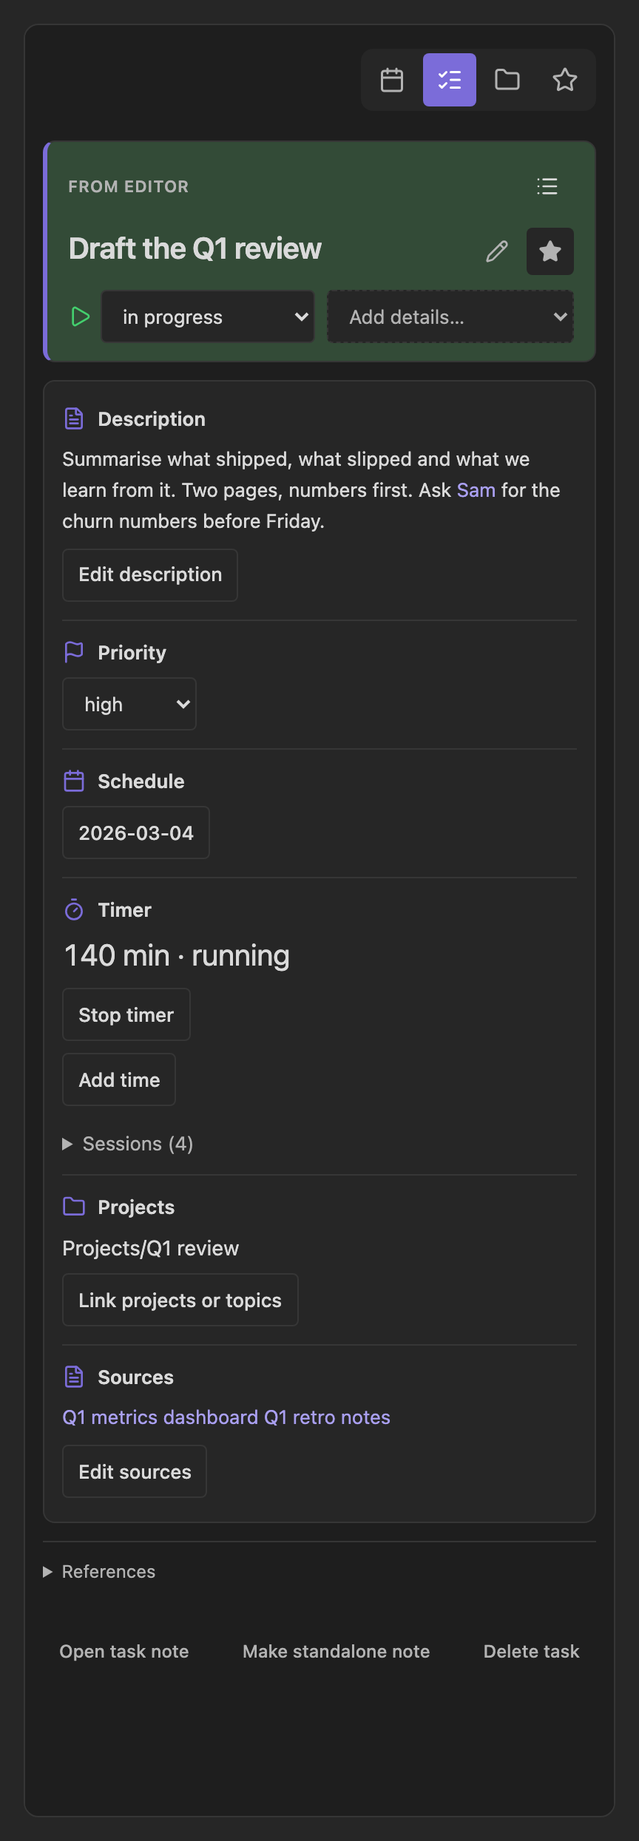
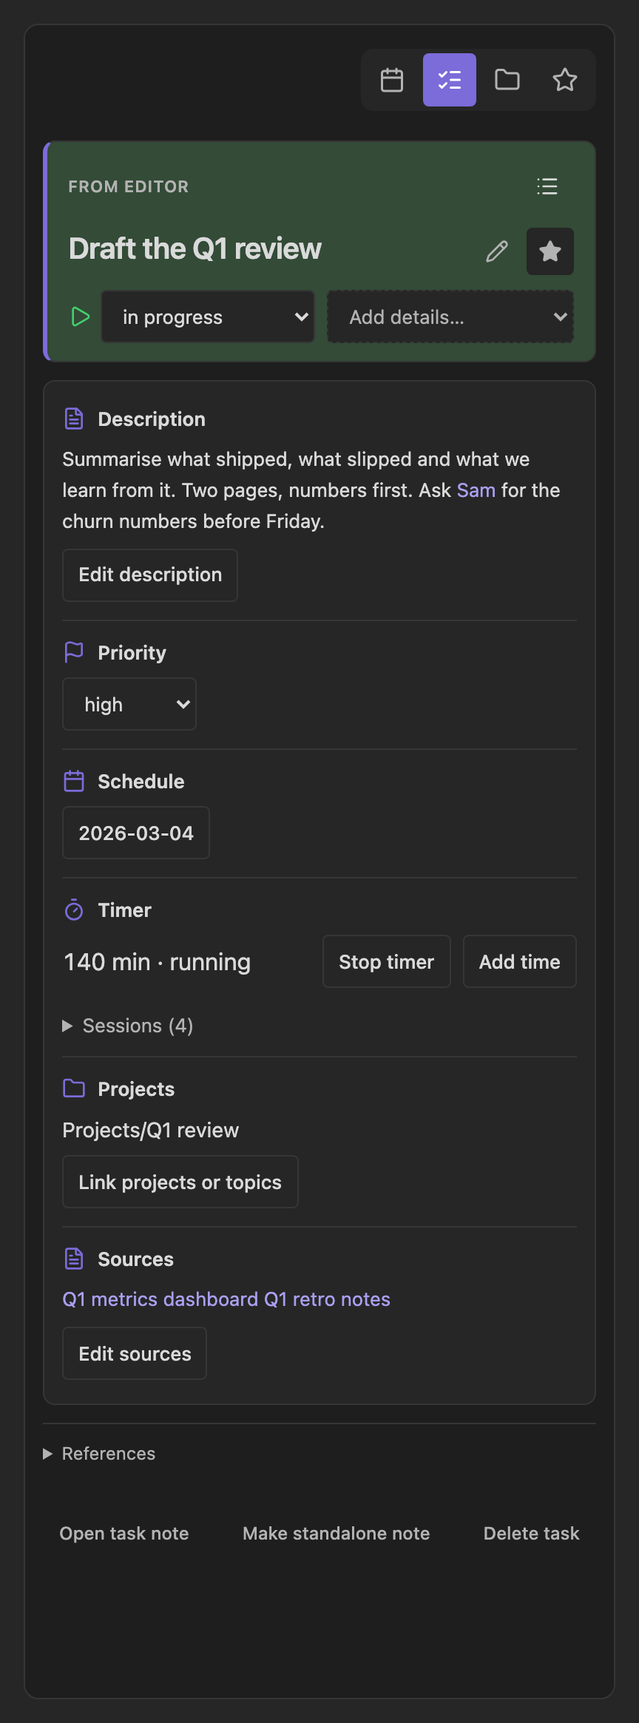
Polish the daily note: silent timer stop, project links and picker colours, sorting around bullets, cursor follows moved todo, compact timer; add whole-journey test (#80)

diff --git a/src/tests/journey.dom.test.ts b/src/tests/journey.dom.test.ts
@@ -1,0 +1,101 @@
+// @vitest-environment happy-dom
+// One user's whole life with the plugin in a throwaway in-memory vault: install, first run, every day-to-day feature, restart, upgrade of old notes, retire.
+// It drives the real plugin (commands, vault events, services, modals) so a regression between features shows up here, not only in the unit tests.
+import { afterEach, describe, expect, it, vi } from "vitest";
+import Organized from "../main";
+import { installObsidianDom } from "./__mocks__/obsidianDom";
+import { harness } from "./harness";
+import { Modal, Notice, TFile } from "./__mocks__/obsidian";
+import { ConfirmModal, OnboardingModal, RetireModal } from "../modals";
+import { parseTasks, readNote, writeNoteSection } from "../codec";
+import { splitNote } from "../repository";
+import { localDate } from "../model";
+
+installObsidianDom();
+const flush = async () => { for (let i = 0; i < 120; i++) await Promise.resolve(); };
+afterEach(() => { vi.useRealTimers(); });
+const manifest = { id: "organized", name: "Organized", author: "davadev", version: "0.0.0", minAppVersion: "1.7.2", description: "", isDesktopOnly: false };
+
+async function install(h: ReturnType<typeof harness>, data?: unknown) {
+  const plugin = new Organized(h.app, manifest) as any; plugin.data = data; await plugin.onload(); h.layout.forEach(fn => fn()); await flush();
+  return plugin;
+}
+const command = (plugin: any, id: string) => plugin.commands.find((c: any) => c.id === id);
+const ids = (text: string) => [...text.matchAll(/organized:([a-z0-9]+)/g)].map(m => m[1]);
+const approve = async () => { await flush(); (Modal.instances.at(-1) as ConfirmModal).done(true); await flush(); };
+const fire = (h: ReturnType<typeof harness>, name: string, ...args: unknown[]) => { for (const fn of h.events[name] ?? []) fn(...args); };
+
+describe("a user's whole journey, from install to retiring", () => {
+  it("installs, converts todos, works with tasks, restarts, upgrades old notes and retires without losing anything", async () => {
+    vi.useFakeTimers({ toFake: ["setTimeout", "setInterval", "Date"] }); vi.setSystemTime(new Date(2026, 2, 4, 9, 0));
+    const today = localDate();
+    const h = harness();
+    // The vault before the plugin: a daily note full of ordinary todos, a note to link to, and a task note an older Organized wrote.
+    const daily = await h.add(`Daily/${today}.md`, "# Plan\n- [ ] Write report\n- [ ] Call _ back\n- [ ] Review snake_case names\n\n# Later\n- [x] Already done\n") as TFile;
+    await h.add("Ideas.md", "Some idea\n");
+    const old = await h.repo.create("Legacy task");
+    const oldPath = h.repo.taskPath(old.id);
+    h.texts.set(oldPath, `${h.texts.get(oldPath)!.replace(/\s*$/, "\n")}\n## Description\nOld description\n\n## Notes\nSee [[Ideas]]\n`);
+    const before = new Map(h.texts);
+
+    // 1. First start: the onboarding card opens once, nothing in the user's notes is written, the old task note is migrated with a backup.
+    Modal.instances.length = 0; let plugin = await install(h);
+    const card = Modal.instances.filter(m => m instanceof OnboardingModal); expect(card).toHaveLength(1); expect(plugin.settings.onboardingSeen).toBe(false); card[0].close(); await flush(); expect(plugin.settings.onboardingSeen).toBe(true);
+    expect(h.texts.get(daily.path)).toBe(before.get(daily.path)); expect(h.texts.get("Ideas.md")).toBe(before.get("Ideas.md"));
+    expect(readNote(splitNote(h.texts.get(oldPath)!).body)).toMatchObject({ description: "Old description\n\nSee [[Ideas]]" }); expect(h.texts.get(oldPath)).not.toMatch(/^## (Description|Notes)/m);
+    expect([...h.texts.keys()].some(k => k.includes("note-backups/task-notes"))).toBe(true); expect(plugin.settings.taskNotesMigrated).toBe(true);
+
+    // 2. Convert the todos of the open daily note with the command; the checkbox text and state survive, each todo gets a task note.
+    const editor = {}; const view = { file: daily };
+    command(plugin, "convert-todos").editorCallback(editor, view); await approve();
+    const converted = h.texts.get(daily.path)!; expect(converted.replace(/ <!--organized:[a-z0-9]+-->/g, "")).toBe(before.get(daily.path));
+    expect(ids(converted)).toHaveLength(3); expect(converted).toContain("- [x] Already done\n");
+    const [report, underscore, snake] = parseTasks(converted).map(line => line.id!);
+    expect((await plugin.repo.read(underscore)).title).toBe("Call _ back"); expect((await plugin.repo.read(snake)).title).toBe("Review snake_case names");
+
+    // 3. Everyday use: description in the note body, priority, schedule, status, tracked time, projects.
+    await plugin.saveModule(report, "Description", "Cover Q1.\nLink: [[Ideas]]"); await plugin.saveModule(report, "Sources", "https://example.com");
+    expect(readNote(splitNote(h.texts.get(plugin.repo.taskPath(report))!).body)).toEqual({ description: "Cover Q1.\nLink: [[Ideas]]", sources: "https://example.com" });
+    await plugin.run(() => plugin.service.setPriority(report, "high")); await plugin.run(() => plugin.service.status(report, "in_progress")); await plugin.run(() => plugin.service.status(report, "open"));
+    await plugin.run(() => plugin.service.addSession(report, { start: new Date(2026, 2, 4, 9, 0).toISOString(), end: new Date(2026, 2, 4, 10, 30).toISOString() }));
+    await plugin.run(() => plugin.service.projects(report, ["Ideas.md"]));
+    const tomorrow = localDate(new Date(2026, 2, 5)); await plugin.run(() => plugin.service.scheduleTask(snake, tomorrow));
+    expect((await plugin.repo.read(snake)).scheduled).toBe(tomorrow);
+    expect((await plugin.repo.read(report)).time_tracked_seconds).toBe(5400);
+
+    // 4. Title edits keep the todo line in step, a completed task closes, and a restart changes nothing on disk.
+    await plugin.run(() => plugin.service.title(report, "Write the Q1 report")); expect(h.texts.get(daily.path)).toContain("Write the Q1 report");
+    await plugin.run(() => plugin.service.status(underscore, "completed")); expect((await plugin.repo.read(underscore)).closed_at).not.toBeNull();
+    plugin.onunload?.(); const snapshot = new Map(h.texts);
+    const events = h.events; for (const key of Object.keys(events)) delete events[key]; h.layout.length = 0;
+    plugin = await install(h, plugin.data); const changedByRestart = [...h.texts].filter(([p, t]) => p !== "Daily" && snapshot.get(p) !== t && !p.includes("crash") && !p.includes("backups") && !p.endsWith(".json"));
+    expect(changedByRestart).toEqual([]);
+
+    // 5. A todo becomes a standalone note; renaming that note keeps the tracked-time record attached.
+    await plugin.run(() => plugin.service.convertToNote(report, { folder: "Notes", tags: ["work"], template: null, clash: "new" }));
+    const note = h.app.vault.getMarkdownFiles().find(f => f.path.startsWith("Notes/"))!; expect(note.path).toBe("Notes/Write the Q1 report.md"); expect(h.texts.get(daily.path)).toContain("[[Notes/Write the Q1 report");
+    expect(h.texts.get(note.path)).toContain("Cover Q1."); expect(h.texts.get(note.path)).toContain("work");
+    await h.app.fileManager.renameFile(note, "Notes/Q1 report.md");
+    for (const [path, text] of h.texts) h.texts.set(path, text.split("[[Notes/Write the Q1 report").join("[[Notes/Q1 report")); // Obsidian rewrites links when a note is renamed
+    fire(h, "rename", note, "Notes/Write the Q1 report.md"); await flush();
+    expect((await plugin.repo.read(report)).converted_to).toBe("Notes/Q1 report.md");
+
+    // 6. Retire: scan, then run the window's choices (links, readable names, properties removed) and check the vault reads as plain Markdown.
+    command(plugin, "retire-tasks").callback(); await flush(); const modal = Modal.instances.at(-1);
+    expect(modal).toBeInstanceOf(RetireModal);
+    (modal as { close(): void }).close();
+    const scan = await plugin.service.scanRetire(); expect(scan.tasks.length).toBeGreaterThanOrEqual(3);
+    await plugin.run(() => plugin.service.retireTasks({ which: "all", olderThanDays: 7, lines: "link", keep: "all", notes: "rename", yaml: "strip" }, (files: any, extra: any) => plugin.safety.writeBackup("retire", files, extra)));
+    const after = h.texts.get(daily.path)!; expect(after).not.toMatch(/organized:/); expect(after).toMatch(/- \[x\] \[\[Tasks\/Call _ back\]\]/); expect(after).toMatch(/- \[ \] \[\[Tasks\/Review snake_case names\]\]/); expect(after).toContain("- [x] Already done\n");
+    // The record behind a standalone note keeps its tracked time and is not a task any more, so retiring leaves it alone.
+    for (const path of h.texts.keys()) if (path.startsWith("Tasks/") && path.endsWith(".md") && path !== plugin.repo.taskPath(report)) expect(h.texts.get(path)).not.toMatch(/organized:|schema_version|work_sessions/);
+    expect(h.texts.get(plugin.repo.taskPath(report))).toContain("converted_to: Notes/Q1 report.md");
+    expect(h.app.vault.getMarkdownFiles().some(f => f.path === "Tasks/Call _ back.md")).toBe(true);
+    // Every link left in the daily note resolves to a file that exists.
+    for (const target of [...after.matchAll(/\[\[([^\]|]+)/g)].map(m => m[1])) expect(h.app.vault.getAbstractFileByPath(`${target}.md`) ?? h.app.vault.getAbstractFileByPath(target), target).not.toBeNull();
+    // And Undo puts the vault back as it was before retiring.
+    const linked = h.texts.get(daily.path)!; await plugin.service.undo();
+    expect(ids(h.texts.get(daily.path)!)).toHaveLength(2); expect(h.texts.get(daily.path)).not.toBe(linked); expect(h.app.vault.getAbstractFileByPath("Tasks/Call _ back.md")).toBeNull(); expect(h.app.vault.getAbstractFileByPath(plugin.repo.taskPath(underscore))).not.toBeNull();
+    expect((await plugin.repo.read(underscore)).title).toBe("Call _ back");
+  });
+});

diff --git a/src/tests/main.dom.test.ts b/src/tests/main.dom.test.ts
@@ -48,7 +48,7 @@ describe('plugin lifecycle and user-only editor actions', () => {
     await stub.processors[0](createDiv(), { getSectionInfo: () => null }); expect(h.raw.vault.process).not.toHaveBeenCalled();
     const file: any = await h.add('Note.md', '- [ ] ordinary'); const editor: any = h.setActive(file); editor.cm = { dispatch: vi.fn() }; plugin.refresh(); expect(editor.cm.dispatch).toHaveBeenCalledWith(expect.objectContaining({ effects: expect.anything() }));
     h.raw.workspace.getActiveViewOfType.mockReturnValueOnce({ file, editor, getMode: () => 'preview' } as any); expect(plugin.activeEditor()).toBeNull();
-    const task = await plugin.repo.create('Project'); const projects = vi.spyOn(plugin.service, 'projects').mockResolvedValue(); const clean = vi.spyOn(plugin.service, 'clean').mockResolvedValue(); plugin.pickProjects(task); const modal = Modal.instances.at(-1) as ProjectPicker; await modal.save([]); expect(projects).toHaveBeenCalledWith(task.id, []); expect(clean).not.toHaveBeenCalled(); modal.close();
+    const task = await plugin.repo.create('Project'); const projects = vi.spyOn(plugin.service, 'projects').mockResolvedValue(); const clean = vi.spyOn(plugin.service, 'clean').mockResolvedValue(); plugin.pickProjects(task); const modal = Modal.instances.at(-1) as ProjectPicker; expect(modal.colorOf('Missing.md')).toBeNull(); await modal.save([]); expect(projects).toHaveBeenCalledWith(task.id, []); expect(clean).not.toHaveBeenCalled(); modal.close();
   });
   it('registers capabilities only, defers vault-create handling and cleans durable crash state', async () => {
     const { h, plugin, stub } = await loaded();
@@ -172,23 +172,23 @@ describe('plugin lifecycle and user-only editor actions', () => {
     (plugin as any).pickerOpen = false; pick.mockClear();
     plugin.onEditorUpdate(update('', '- [ ] ', 'input.paste')); await flush(); expect(pick).not.toHaveBeenCalled();
   });
-  it('triggers only changed linked markers, first manages deliberate syntax and prompts for removed active timers', async () => {
+  it('triggers only changed linked markers, first manages deliberate syntax and stops removed active timers with a notice', async () => {
     const { h, plugin } = await loaded(); const task = await plugin.repo.create('Managed'); const file: any = await h.add('Note.md'); const editor = h.setActive(file);
     const trigger = vi.spyOn(plugin, 'trigger').mockResolvedValue();
     const old = `- [ ] Managed <!--organized:${task.id}-->`; const next = old.replace('[ ]', '[/]'); editor.setValue(next); plugin.onEditorUpdate(update(old, next)); await flush(); expect(trigger).toHaveBeenCalledOnce();
     editor.setValue(old.replace('Managed', 'Edited title')); plugin.onEditorUpdate(update(old, editor.getValue())); await flush(); expect(trigger).toHaveBeenCalledOnce();
     editor.setValue('- [!] First'); plugin.onEditorUpdate(update('- [ ] First', editor.getValue())); await flush(); expect(await plugin.repo.list()).toHaveLength(2); expect(parseTasks(editor.getValue())[0].id).toBeTruthy(); expect(trigger).toHaveBeenCalledTimes(2);
     const confirm = vi.spyOn(plugin, 'confirm').mockResolvedValue(true); const status = vi.spyOn(plugin.service, 'status').mockResolvedValue();
-    editor.setValue('- [ ] remains'); plugin.onEditorUpdate(update(next, editor.getValue())); await flush(); expect(confirm).toHaveBeenCalled(); expect(status).toHaveBeenCalledWith(task.id, 'open');
+    editor.setValue('- [ ] remains'); plugin.onEditorUpdate(update(next, editor.getValue())); await flush(); expect(confirm).not.toHaveBeenCalled(); expect(status).toHaveBeenCalledWith(task.id, 'open'); expect(Notice.instances.at(-1)?.message).toContain('Timer stopped for');
     confirm.mockResolvedValue(false); plugin.onEditorUpdate(update(next, editor.getValue())); await flush(); expect(status).toHaveBeenCalledOnce();
   });
-  it('coalesces picker microtasks, handles new linked lines and keeps timer deletion prompts optional', async () => {
+  it('coalesces picker microtasks, handles new linked lines and never asks about a removed timer', async () => {
     const { h, plugin } = await loaded(); const file: any = await h.add('Note.md'); const editor = h.setActive(file, '- [ ] ');
     const picker = vi.spyOn(plugin, 'pickTask').mockImplementation(async () => { (plugin as any).pickerOpen = true; });
     plugin.onEditorUpdate(update('- [', '- [ ] ')); plugin.onEditorUpdate(update('- [', '- [ ] ')); await flush(); expect(picker).toHaveBeenCalledOnce();
     plugin.onEditorUpdate(update('- [', '- [ ] ')); await flush(); expect(picker).toHaveBeenCalledOnce(); (plugin as any).pickerOpen = false;
     const trigger = vi.spyOn(plugin, 'trigger').mockResolvedValue(); editor.setValue('- [/] Existing <!--organized:task1234-->'); plugin.onEditorUpdate(update('', editor.getValue())); await flush(); expect(trigger).toHaveBeenCalledOnce();
-    const confirm = vi.spyOn(plugin, 'confirm').mockResolvedValue(false); const status = vi.spyOn(plugin.service, 'status').mockResolvedValue(); const old = editor.getValue(); editor.setValue('ordinary prose'); plugin.onEditorUpdate(update(old, editor.getValue())); await flush(); expect(confirm).toHaveBeenCalledOnce(); expect(status).not.toHaveBeenCalled();
+    const confirm = vi.spyOn(plugin, 'confirm').mockResolvedValue(false); const status = vi.spyOn(plugin.service, 'status').mockResolvedValue(); const old = editor.getValue(); editor.setValue('ordinary prose'); plugin.onEditorUpdate(update(old, editor.getValue())); await flush(); expect(confirm).not.toHaveBeenCalled(); expect(status).toHaveBeenCalledWith('task1234', 'open');
   });
   it('migrates linked projects once after layout ready, announces it with an undo, and never moves anything when writes are paused', async () => {
     const { h, plugin } = await loaded(); const folder = plugin.repo.projectFolder();

diff --git a/src/tests/modals.dom.test.ts b/src/tests/modals.dom.test.ts
@@ -54,15 +54,22 @@ describe("native task, date, source and project modals", () => {
     done.mockClear(); const confirm = new ConfirmModal(h.app, 'Question?', done); confirm.open(); confirm.contentEl.querySelectorAll('button')[1].click(); expect(done).toHaveBeenCalledExactlyOnceWith(true);
     const deleting = new ConfirmModal(h.app, 'Remove it?', done, 'Delete task', 'Delete'); deleting.open(); expect(deleting.titleEl.textContent).toBe('Delete task'); expect(deleting.contentEl.querySelectorAll('button')[1].textContent).toBe('Delete'); expect((Setting.instances.at(-1)!.controls.at(-1) as any).buttonEl.classList.contains('mod-warning')).toBe(true); deleting.close(); expect(done).toHaveBeenCalledTimes(2);
   });
+  it("lists project names with their colour dot, and the path only when two projects share a name", () => {
+    const h = harness(); const colors: Record<string, string> = { 'Tasks/Projects/Alpha.md': '#3b82f6' };
+    const modal = new ProjectPicker(h.app, ['Tasks/Projects/Alpha.md', 'Tasks/Projects/Beta.md', 'Work/Gamma.md', 'Home/Gamma.md'], [], async () => undefined, 'Tasks/Projects', note => colors[note] ?? null); modal.open();
+    const rows = Array.from(modal.contentEl.querySelectorAll('.organized-project-choice')); expect(rows.map(r => r.textContent)).toEqual(['Alpha', 'Beta', 'Work/Gamma', 'Home/Gamma']);
+    expect(rows[0].querySelector('.organized-project-dot')!.hasAttribute('data-project')).toBe(true); expect(rows[0].querySelector<HTMLElement>('.organized-project-dot')!.style.getPropertyValue('--organized-chip-bg')).toBe('59 130 246');
+    expect(rows[1].querySelector('.organized-project-dot')!.hasAttribute('data-project')).toBe(false);
+  });
   it("multi-selects projects and creates only a chosen valid root note; search keeps input focus", async () => {
     const h = harness(); const save = vi.fn(async () => undefined); const modal = new ProjectPicker(h.app, ['Existing.md', 'Other.md'], ['Selected.md'], save); modal.open(); decorated(modal);
     const input = modal.contentEl.querySelector('input[type=search]') as HTMLInputElement; input.focus(); input.value = 'New'; input.dispatchEvent(new Event('input'));
-    expect(document.activeElement).toBe(input); expect(modal.contentEl.textContent).toContain('New.md (create)');
+    expect(document.activeElement).toBe(input); expect(modal.contentEl.textContent).toContain('New (create)');
     const choice = modal.contentEl.querySelector('input[type=checkbox]') as HTMLInputElement; choice.checked = true; choice.dispatchEvent(new Event('change')); choice.checked = false; choice.dispatchEvent(new Event('change')); choice.checked = true; choice.dispatchEvent(new Event('change'));
     input.value = '../bad'; input.dispatchEvent(new Event('input')); expect(modal.contentEl.querySelectorAll('input[type=checkbox]')).toHaveLength(0);
     input.value = 'bad?'; input.dispatchEvent(new Event('input')); expect(modal.contentEl.querySelectorAll('input[type=checkbox]')).toHaveLength(0);
     modal.contentEl.querySelector('button')!.click(); await flush(); expect(save).toHaveBeenCalledWith(['Selected.md', 'New.md']); expect(h.files.size).toBe(0);
-    const filed = new ProjectPicker(h.app, [], [], save, 'Tasks/Projects'); filed.open(); const filedInput = filed.contentEl.querySelector('input[type=search]') as HTMLInputElement; filedInput.value = 'Plan.md'; filedInput.dispatchEvent(new Event('input')); expect(filed.contentEl.textContent).toContain('Tasks/Projects/Plan.md (create)'); filed.close();
+    const filed = new ProjectPicker(h.app, [], [], save, 'Tasks/Projects'); filed.open(); const filedInput = filed.contentEl.querySelector('input[type=search]') as HTMLInputElement; filedInput.value = 'Plan.md'; filedInput.dispatchEvent(new Event('input')); expect(filed.contentEl.textContent).toContain('Plan (create)'); filed.close();
     const failed = new ProjectPicker(h.app, [], [], async () => { throw Error('project failure'); }); failed.open(); failed.contentEl.querySelector('button')!.click(); await flush(); expect(Notice.instances.at(-1)?.message).toContain('project failure');
   });
   it("adds or edits a session with a live length, refuses a bad range and offers Open task and Delete when editing", async () => {

diff --git a/src/render.ts b/src/render.ts
@@ -1,11 +1,12 @@
-import { Component, MarkdownPostProcessorContext, MarkdownRenderer, MarkdownRenderChild } from "obsidian";
+import { Component, MarkdownPostProcessorContext, MarkdownRenderer, MarkdownRenderChild, Notice } from "obsidian";
 import { Decoration, DecorationSet, EditorView, ViewPlugin, ViewUpdate, WidgetType, keymap } from "@codemirror/view";
 import { StateEffect, StateField, RangeSetBuilder, EditorState, Extension, Prec } from "@codemirror/state";
 import { editorLivePreviewField } from "obsidian";
 import type Organized from "./main";
 import { noteSection, parseTasks } from "./codec";
 import { elapsed, Task } from "./model";
-import { splitNote } from "./repository";
+import { projectName, splitNote } from "./repository";
+import { rgbOf } from "./colors";
 import { report } from "./service";
 
 export const GLYPHS: Record<string, string> = {
@@ -17,6 +18,14 @@ export function icon(host: HTMLElement, marker: string): void {
 }
 /** Notes and sources render as Markdown blocks and need their own row; every other property is a short label that sits beside the title. */
 export function hasRichProperties(owner: Organized): boolean { return owner.settings.displayProperties.some(p => p === "description" || p === "sources"); }
+/** The task's projects as links showing only the project name, in the project's colour (darker on a light theme, brighter on a dark one) when it has one. */
+function projectLinks(owner: Organized, host: HTMLElement, task: Task): void {
+  for (const project of task.projects) {
+    const link = host.createEl("a", { text: projectName(project), cls: "organized-property organized-project-link", href: "#", attr: { "aria-label": `Open project ${projectName(project)}` } });
+    const color = owner.repo.projectColor(project); if (color) { link.setAttribute("data-project", ""); link.setCssProps({ "--organized-chip-bg": rgbOf(color) }); }
+    link.addEventListener("click", event => { event.preventDefault(); const file = owner.repo.file(project); if (file) void owner.app.workspace.getLeaf(false).openFile(file); else new Notice(`The project note ${project} no longer exists.`); });
+  }
+}
 /** `live` turns false once a newer draw or a teardown owns `host`, so an older projection stops appending after its awaits. */
 export async function projection(owner: Organized, host: HTMLElement, task: Task, component: Component, live: () => boolean = () => true): Promise<void> {
   host.addClass("organized-projection"); const selected = owner.settings.displayProperties;
@@ -28,6 +37,7 @@ export async function projection(owner: Organized, host: HTMLElement, task: Task
   for (const property of selected) {
     if (!live()) return;
     if (property === "scheduled") continue;
+    if (property === "projects") { projectLinks(owner, host, task); continue; }
     if (property === "description" || property === "sources") {
       const file = owner.repo.file(owner.repo.taskPath(task.id)); if (!file) continue;
       const body = splitNote(await owner.repo.readText(file)).body; if (!live()) return;

diff --git a/src/repository.ts b/src/repository.ts
@@ -11,6 +11,11 @@ export function splitNote(text: string): { frontmatter: Record<string, unknown>;
 export const PROJECT_KEY = "organized_type";
 /** Optional `#rrggbb` colour of a project note, shown on its tasks in the side panel and the calendar. */
 export const COLOR_KEY = "organized_color";
+/** A project note's name for display: the file name without folders or `.md`; the path (without `.md`) only when another listed project shares that name. */
+export function projectName(notePath: string, among: readonly string[] = []): string {
+  const name = (value: string) => value.replace(/^.*\//, "").replace(/\.md$/i, "");
+  return among.filter(other => other !== notePath && name(other).toLowerCase() === name(notePath).toLowerCase()).length ? notePath.replace(/\.md$/i, "") : name(notePath);
+}
 /** The day a project started, `YYYY-MM-DD`. Set automatically; an `organized_end` date is reserved for later and not used yet. */
 export const START_KEY = "organized_start";
 /** A start date as stored: `YYYY-MM-DD` text, or a Date when a YAML reader turned the bare date into one. */
@@ -112,7 +117,15 @@ export class Repository {
       while (end > start && afterEnd > start && before[end - 1] === after[afterEnd - 1]) { end--; afterEnd--; }
       const selection = active.editor.listSelections();
       active.editor.transaction({ changes: [{ from: active.editor.offsetToPos(start), to: active.editor.offsetToPos(end), text: after.slice(start, afterEnd) }] }, "input.organized");
-      active.editor.setSelections(selection.map(s => ({ anchor: active.editor.offsetToPos(Math.min(after.length, active.editor.posToOffset(s.anchor))), head: active.editor.offsetToPos(Math.min(after.length, active.editor.posToOffset(s.head))) })));
+      // A todo that was re-sorted keeps the cursor: it follows the line by its hidden id instead of staying at the same offset.
+      const beforeLines = before.split("\n"); const afterLines = after.split("\n");
+      const follow = (pos: { line: number; ch: number }) => {
+        const id = /organized:([a-z0-9]+)/.exec(beforeLines[pos.line])?.[1]; if (!id) return null;
+        const mark = `organized:${id}`; const there = afterLines.flatMap((l, i) => l.includes(mark) ? [i] : []);
+        return there.length === 1 && beforeLines.filter(l => l.includes(mark)).length === 1 ? { line: there[0], ch: Math.min(pos.ch, afterLines[there[0]].length) } : null;
+      };
+      const keep = (pos: { line: number; ch: number }) => follow(pos) ?? active.editor.offsetToPos(Math.min(after.length, active.editor.posToOffset(pos)));
+      active.editor.setSelections(selection.map(s => ({ anchor: keep(s.anchor), head: keep(s.head) })));
     } else {
       await this.app.vault.process(file, current => { if (current !== before) throw new Error(`${file.path} changed concurrently; preserved. Retry the action.`); return after; });
     }

diff --git a/src/tests/render.dom.test.ts b/src/tests/render.dom.test.ts
@@ -7,6 +7,7 @@ import { editorExtension, hasRichProperties, stepPastComments, GLYPHS, icon, pro
 import { Component, editorLivePreviewField, MarkdownRenderChild } from './__mocks__/obsidian';
 import { installObsidianDom } from './__mocks__/obsidianDom';
 import { harness } from './harness';
+import { Notice } from './__mocks__/obsidian';
 import { DISPLAY_PROPERTIES } from '../model';
 
 installObsidianDom();
@@ -124,5 +125,19 @@ describe('read-only projections and bundled visual markers', () => {
       expect(span.textContent).toBe(`priority: ${priority}`); expect(span.classList.contains(`organized-priority-${priority}`)).toBe(true);
     }
     const other = createDiv(); owner.settings.displayProperties = ['status']; await projection(owner, other, task, component); expect(other.querySelector('.organized-property')!.className).toBe('organized-property');
+  });
+});
+
+describe('project links beside a todo', () => {
+  it('shows each project by name in its colour and opens the project note on click', async () => {
+    const { owner, task, repo, raw, add } = await fixture(); owner.settings.displayProperties = ['projects'];
+    const coloured: any = await add('Tasks/Projects/Alpha.md', '---\norganized_type: project\norganized_color: "#3b82f6"\n---\n'); await add('Work/Plain.md', 'x');
+    raw.metadataCache.getFileCache = (file: any) => ({ frontmatter: file.path === coloured.path ? { organized_color: '#3b82f6' } : undefined }) as any;
+    const linked = await repo.update(task.id, t => ({ ...t, projects: [coloured.path, 'Work/Plain.md', 'Gone.md'] })); const host = createDiv(); await projection(owner, host, linked, new Component() as any);
+    const links = Array.from(host.querySelectorAll<HTMLAnchorElement>('a.organized-project-link')); expect(links.map(l => l.textContent)).toEqual(['Alpha', 'Plain', 'Gone']);
+    expect(links[0].hasAttribute('data-project')).toBe(true); expect(links[0].style.getPropertyValue('--organized-chip-bg')).toBe('59 130 246'); expect(links[1].hasAttribute('data-project')).toBe(false); expect(host.textContent).not.toContain('Tasks/Projects');
+    const open = vi.fn(async () => undefined); raw.workspace.getLeaf.mockReturnValue({ openFile: open } as any);
+    links[0].click(); expect(open).toHaveBeenCalledWith(coloured); links[2].click(); expect(open).toHaveBeenCalledOnce(); expect(Notice.instances.at(-1)?.message).toContain('Gone.md');
+    const none = createDiv(); await projection(owner, none, task, new Component() as any); expect(none.querySelector('.organized-project-link')).toBeNull();
   });
 });

diff --git a/styles.css b/styles.css
@@ -126,7 +126,8 @@
 .organized-card-icon { display: inline-flex; color: var(--interactive-accent); }
 .organized-card .organized-card-title { margin: 0; color: var(--text-normal); font-size: 13px; line-height: 1.4; font-weight: 600; }
 .organized-selected-module { border-color: var(--background-modifier-border-hover); }
-.organized-timer-value { color: var(--text-normal); font-size: 20px; font-variant-numeric: tabular-nums; }
+.organized-timer-row { display: flex; flex-wrap: wrap; align-items: center; gap: 6px 8px; inline-size: 100%; }
+.organized-timer-value { flex: 1 1 auto; color: var(--text-normal); font-size: 16px; font-variant-numeric: tabular-nums; }
 .organized-card .organized-task-notes { inline-size: 100%; font-size: 13px; line-height: 1.6; }
 .organized-task-notes > :first-child { margin-block-start: 0; }
 /* Rendered Markdown stays in proportion to the card: headings only a little larger than the text, and wide content scrolls inside the card instead of widening it. */
@@ -199,6 +200,11 @@
 .organized-view .organized-panel button.organized-color-clear { flex: 0 0 auto; block-size: auto; min-block-size: 0; margin: 0; padding: 2px 10px; font-size: var(--font-ui-smaller, 12px); box-shadow: none; }
 .organized-color-name { flex: 1 1 auto; min-inline-size: 0; overflow: hidden; text-overflow: ellipsis; white-space: nowrap; }
 .organized-view .organized-panel .organized-list-card[data-status="in_progress"] .organized-list-open { border-inline-start-color: var(--organized-edge-done); }
+.organized-project-dot { flex: 0 0 8px; inline-size: 8px; block-size: 8px; border-radius: 50%; background: var(--background-modifier-border-hover); }
+.organized-project-dot[data-project] { background: rgb(var(--organized-chip-bg)); }
+.organized-project-link { text-decoration: none; cursor: pointer; }
+.theme-light .organized-project-link[data-project] { color: color-mix(in srgb, rgb(var(--organized-chip-bg)) 65%, black); }
+.theme-dark .organized-project-link[data-project] { color: color-mix(in srgb, rgb(var(--organized-chip-bg)) 70%, white); }
 .organized-chip[data-project]::before { content: ""; flex: 0 0 8px; inline-size: 8px; block-size: 8px; border-radius: 50%; background: rgb(var(--organized-chip-bg)); }
 .organized-task-hero[data-status="completed"] { border-inline-start-color: var(--organized-edge-done); }
 .organized-task-hero[data-status="canceled"] { border-inline-start-color: var(--background-modifier-border-hover); }

diff --git a/src/modals.ts b/src/modals.ts
@@ -3,6 +3,8 @@ import { path, PRIORITIES, Priority, Task, validDate, WorkSession } from "./mode
 import { isoFromInput, lengthOf, localInput, sessionProblem } from "./sessions";
 import { cleanTags, freePath, noteName } from "./notes";
 import { report } from "./service";
+import { rgbOf } from "./colors";
+import { projectName } from "./repository";
 import { renderMarkdownLinks } from "./markdown";
 import { ONBOARDING_STEPS, OnboardingStep } from "./onboarding";
 import { renderFigure } from "./onboardingFigures";
@@ -80,7 +82,7 @@ export class ConfirmModal extends Modal {
 }
 export class ProjectPicker extends Modal {
   readonly selected: Set<string>;
-  constructor(app: App, readonly notes: string[], selected: string[], readonly save: (notes: string[]) => Promise<void>, readonly folder = "") { super(app); decorate(this); this.selected = new Set(selected); }
+  constructor(app: App, readonly notes: string[], selected: string[], readonly save: (notes: string[]) => Promise<void>, readonly folder = "", readonly colorOf: (note: string) => string | null = () => null) { super(app); decorate(this); this.selected = new Set(selected); }
   onOpen(): void {
     this.titleEl.setText("Link projects or topics"); this.contentEl.addClass("organized-modal");
     this.contentEl.createEl("label", { cls: "organized-modal-label", text: "Find or create a root note" });
@@ -93,7 +95,9 @@ export class ProjectPicker extends Modal {
       for (const note of notes) {
         const label = results.createEl("label", { cls: "organized-project-choice" });
         const input = label.createEl("input", { type: "checkbox" }); input.checked = this.selected.has(note);
-        label.createSpan({ text: `${note}${this.notes.includes(note) ? "" : " (create)"}` });
+        const color = this.colorOf(note); const dot = label.createSpan({ cls: "organized-project-dot", attr: { "aria-hidden": "true" } });
+        if (color) { dot.setAttribute("data-project", ""); dot.setCssProps({ "--organized-chip-bg": rgbOf(color) }); }
+        label.createSpan({ text: `${projectName(note, [...this.notes, ...this.selected])}${this.notes.includes(note) ? "" : " (create)"}` });
         input.addEventListener("change", () => { if (input.checked) this.selected.add(note); else this.selected.delete(note); });
       }
     };

diff --git a/src/view.ts b/src/view.ts
@@ -496,9 +496,10 @@ export class OrganizedInspectorView extends ItemView {
     if (task.priority !== "none" || this.module === "Priority") this.select(this.card(details, "Priority", "flag"), "Priority", task.priority, PRIORITIES, value => { void this.owner.run(async () => { await this.owner.service.setPriority(id, value as Task["priority"], this.owner.context?.line.id === id ? this.owner.context : undefined); this.owner.refresh(); }); });
     if (task.scheduled || this.module === "Schedule") this.button(this.card(details, "Schedule", "calendar"), task.scheduled ?? "Choose date", () => { new DatePicker(this.app, task.scheduled ?? localDate(), date => this.owner.run(() => this.owner.service.scheduleTask(id, date, this.owner.context ?? undefined))).open(); });
     if (task.time_tracking_started_at || task.time_tracked_seconds > 0 || this.module === "Timer") {
-      const timer = this.card(details, "Timer", "timer"); timer.createDiv({ cls: "organized-timer-value", text: `${Math.floor(elapsed(task) / 60)} min${task.time_tracking_started_at ? " · running" : ""}` });
-      this.button(timer, task.time_tracking_started_at ? "Stop timer" : "Start timer", () => this.owner.run(() => this.owner.service.status(id, task.time_tracking_started_at ? "open" : "in_progress", this.owner.context ?? undefined)));
-      this.button(timer, "Add time", () => this.editSession(task, null, localDate()));
+      const timer = this.card(details, "Timer", "timer"); const row = timer.createDiv({ cls: "organized-timer-row" });
+      row.createDiv({ cls: "organized-timer-value", text: `${Math.floor(elapsed(task) / 60)} min${task.time_tracking_started_at ? " · running" : ""}` });
+      this.button(row, task.time_tracking_started_at ? "Stop timer" : "Start timer", () => this.owner.run(() => this.owner.service.status(id, task.time_tracking_started_at ? "open" : "in_progress", this.owner.context ?? undefined)));
+      this.button(row, "Add time", () => this.editSession(task, null, localDate()));
       if (task.work_sessions.length) this.sessionList(timer, task);
     }
     if (task.recurring || task.recurrence_periods.length || this.module === "Recurring") {

diff --git a/src/main.ts b/src/main.ts
@@ -300,7 +300,10 @@ export default class Organized extends Plugin {
     const remaining = new Set(parseTasks(update.state.doc.toString()).map(t => t.id));
     for (const removed of parseTasks(update.startState.doc.toString()).filter(t => t.id && t.marker === "/" && !remaining.has(t.id))) {
       const id = removed.id!;
-      void this.confirm("An in-progress occurrence was removed. Stop and accumulate its timer? Cancel keeps it running.").then(yes => yes ? this.run(() => this.service.status(id, "open")) : undefined).catch(report);
+      void this.run(async () => {
+        await this.service.status(id, "open"); const task = await this.repo.read(id);
+        new Notice(`Timer stopped for "${task.title}" because its todo was removed. ${Math.floor(task.time_tracked_seconds / 60)} min tracked so far.`);
+      }).catch(report);
     }
     // Ticking a checkbox in Live Preview replaces one marker character, often with no user event and without moving the cursor onto the line.
     if (this.tickedLinkedTask(update, active, user)) return;
@@ -378,7 +381,7 @@ export default class Organized extends Plugin {
     }).open();
   }
   pickProjects(task: Task, context?: Context): void {
-    new ProjectPicker(this.app, this.repo.projectNotes(), task.projects, notes => this.run(async () => { await this.service.projects(task.id, notes); this.rememberProjects(notes); if (context) await this.service.clean(context); }), this.repo.projectFolder()).open();
+    new ProjectPicker(this.app, this.repo.projectNotes(), task.projects, notes => this.run(async () => { await this.service.projects(task.id, notes); this.rememberProjects(notes); if (context) await this.service.clean(context); }), this.repo.projectFolder(), note => this.repo.projectColor(note)).open();
   }
   async saveModule(id: string, section: NoteSection, text: string): Promise<void> {
     const file = this.repo.file(this.repo.taskPath(id)); if (!file) throw new Error("Task note is missing.");

diff --git a/src/tests/codec.test.ts b/src/tests/codec.test.ts
@@ -66,6 +66,14 @@ describe("Markdown task codec", () => {
     expect(migrateNote('## Notes\nOnly notes\n')).toBe('Only notes\n'); expect(migrateNote('## Description\n')).toBe('');
     expect(migrateNote('Same\n## Description\nSame\n')).toBe('Same\n\nSame\n');
   });
+  it("lets plain bullets sit inside a sorted list and ranks finished todos as no priority", () => {
+    const priorities = new Map([['task_aaa', 'low' as const], ['task_bbb', 'high' as const], ['task_ccc', 'medium' as const]]);
+    const linked = '- [ ] low <!--organized:task_aaa-->\n- [[Notes/Converted]]\n- [/] high <!--organized:task_bbb-->';
+    expect(sortTasks(linked, 2, 'list', priorities)).toBe('- [/] high <!--organized:task_bbb-->\n- [[Notes/Converted]]\n- [ ] low <!--organized:task_aaa-->');
+    expect(sortTasks('- [ ] low <!--organized:task_aaa-->\n  - [[Nested]]\n- [/] high <!--organized:task_bbb-->', 2, 'list', priorities)).toBe('- [/] high <!--organized:task_bbb-->\n- [ ] low <!--organized:task_aaa-->\n  - [[Nested]]');
+    expect(sortTasks('- [ ] low <!--organized:task_aaa-->\nProse\n- [/] high <!--organized:task_bbb-->', 2, 'list', priorities)).toBe('- [ ] low <!--organized:task_aaa-->\nProse\n- [/] high <!--organized:task_bbb-->');
+    for (const marker of ['x', 'X', '-']) expect(sortTasks(`- [${marker}] high <!--organized:task_bbb-->\n- [ ] medium <!--organized:task_ccc-->\n- [ ] low <!--organized:task_aaa-->`, 0, 'list', priorities)).toBe(`- [ ] medium <!--organized:task_ccc-->\n- [ ] low <!--organized:task_aaa-->\n- [${marker}] high <!--organized:task_bbb-->`);
+  });
   it("sorts only safe sibling positions, never prose, headings or subtask blocks", () => {
     const text = '# A\n- [ ] low <!--organized:task_low-->\n- [ ] high <!--organized:taskhigh-->\n\nProse\n- [ ] medium <!--organized:task_med-->\n# B\n- [ ] other';
     const priorities = new Map([['task_low', 'low' as const], ['taskhigh', 'high' as const], ['task_med', 'medium' as const]]);

diff --git a/src/tests/regressions.dom.test.ts b/src/tests/regressions.dom.test.ts
@@ -81,4 +81,15 @@ describe('conflict and structural regression cases', () => {
     h.setSettings({ dailyFormat: 'YYYY-MMMM-DD' }); expect(h.service.daily.date('Daily/2026-january-02.md')).toBeNull();
     const records = new DataSafety(h.app.vault.adapter, 'none', '0.1.0', vi.fn()); await records.snapshot('upgrade'); expect(h.raw.vault.adapter.write).not.toHaveBeenCalled();
   });
+  it('keeps the cursor on a todo that moved when the note is re-sorted', async () => {
+    const h = harness(); const a = 'aaaa1111'; const b = 'bbbb2222';
+    const before = `- [ ] First <!--organized:${a}-->\n- [ ] Second <!--organized:${b}-->\n- plain`; const after = `- [/] Second <!--organized:${b}-->\n- [ ] First <!--organized:${a}-->\n- plain`;
+    const file: any = await h.add('Daily/2026-01-01.md', before); const editor = h.setActive(file, before);
+    editor.setCursor({ line: 1, ch: 6 }); await h.repo.write(file, before, after); expect(editor.listSelections()[0]).toEqual({ anchor: { line: 0, ch: 6 }, head: { line: 0, ch: 6 } });
+    // A line without an id, or one that appears twice, falls back to the same offset.
+    const plain = '- [ ] a\n- [ ] b'; const moved = '- [ ] b\n- [ ] a'; const note: any = await h.add('Plain2.md', plain); const second = h.setActive(note, plain); second.setCursor({ line: 1, ch: 3 });
+    await h.repo.write(note, plain, moved); expect(second.listSelections()[0].anchor).toEqual({ line: 1, ch: 3 });
+    const twice = `- [ ] x <!--organized:${a}-->\n- [ ] x <!--organized:${a}-->`; const swapped = `- [/] x <!--organized:${a}-->\n- [ ] x <!--organized:${a}-->`; const dup: any = await h.add('Dup.md', twice); const third = h.setActive(dup, twice); third.setCursor({ line: 1, ch: 2 });
+    await h.repo.write(dup, twice, swapped); expect(third.listSelections()[0].anchor).toEqual({ line: 1, ch: 2 });
+  });
 });
